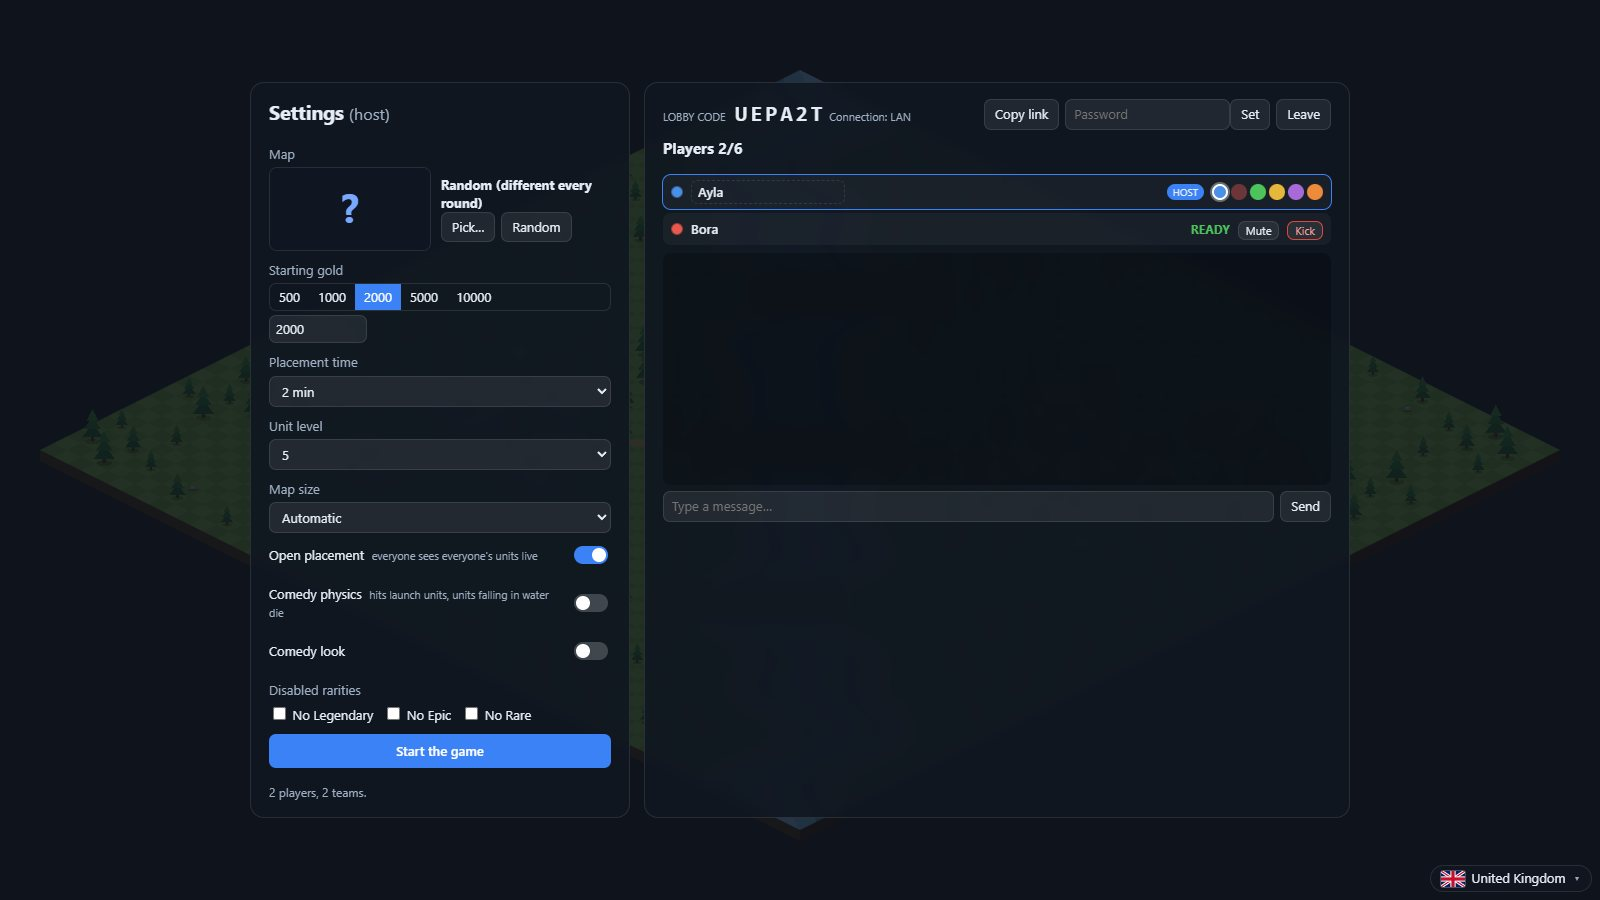
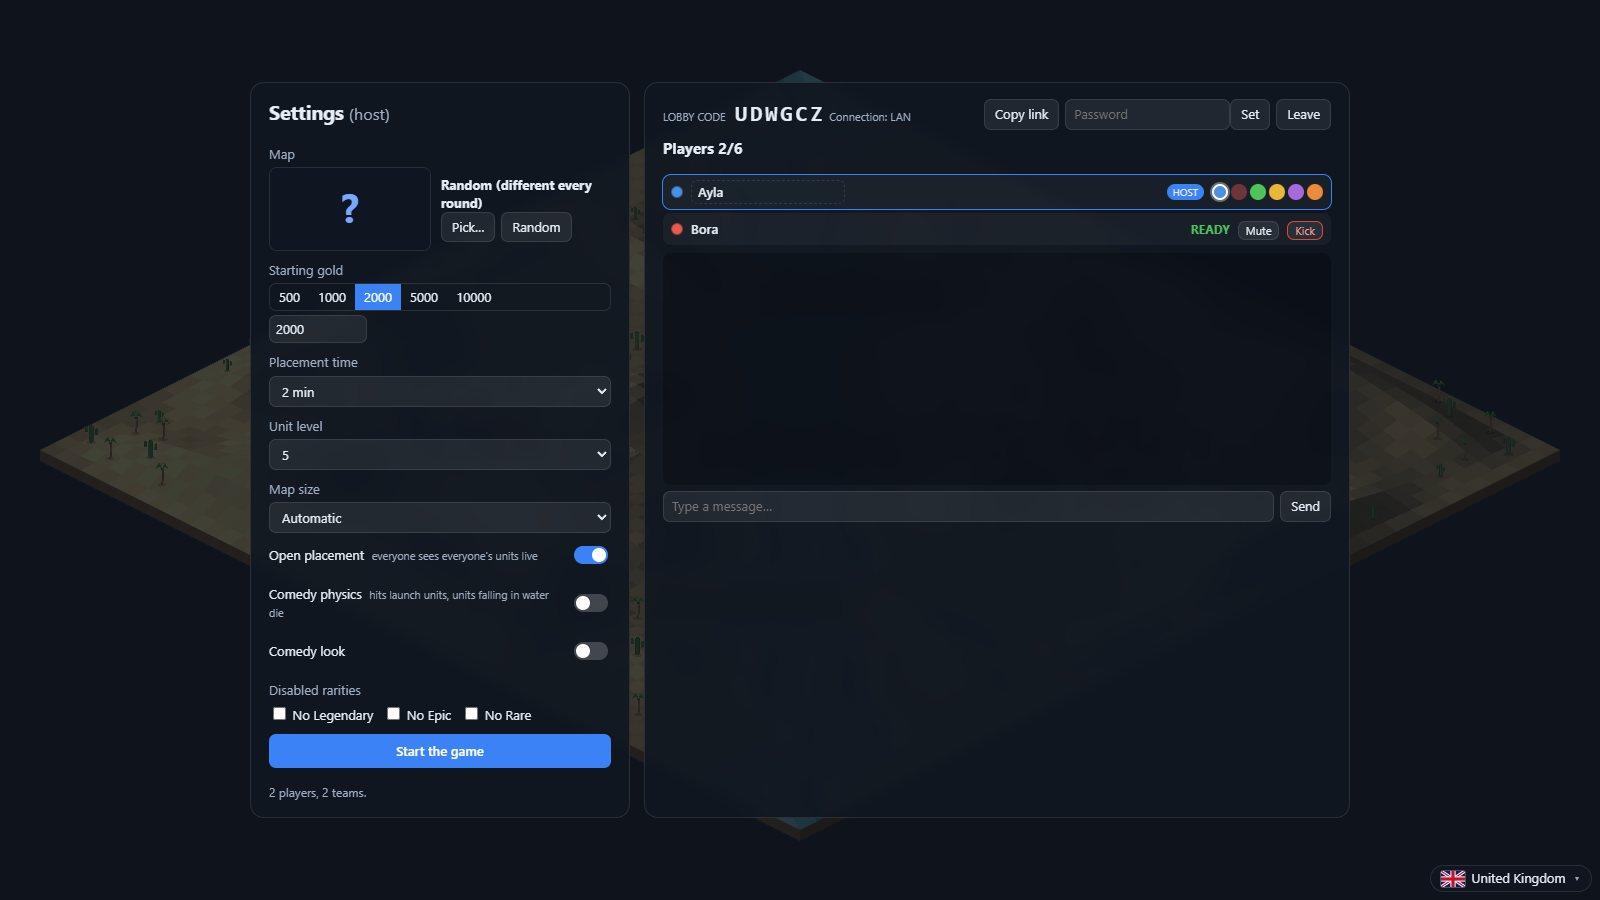
Release v1.5.0: language dropdown, unit attack previews, README showcase screenshots, AI-friendly setup

diff --git a/README.md b/README.md
@@ -13,14 +13,14 @@ support for phones and tablets, 49 units, random maps and a bilingual UI (Englis
 
 <!-- screenshots:start (generated by `npm run screenshots`) -->
 <p align="center">
-  <img src="docs/screenshots/battle.jpg" alt="v1.4.0 — Crowded battle" />
+  <img src="docs/screenshots/battle.jpg" alt="v1.5.0 — Crowded battle" />
 </p>
 
 <table>
-  <tr><td align="center"><img src="docs/screenshots/comedy.jpg" alt="v1.4.0 — Comedy physics" width="460" /><br /><sub>Comedy physics</sub></td><td align="center"><img src="docs/screenshots/maps.jpg" alt="v1.4.0 — Map gallery" width="460" /><br /><sub>Map gallery</sub></td></tr>
-  <tr><td align="center"><img src="docs/screenshots/units.jpg" alt="v1.4.0 — Unit gallery with attack previews" width="460" /><br /><sub>Unit gallery with attack previews</sub></td><td align="center"><img src="docs/screenshots/studio.jpg" alt="v1.4.0 — Army studio" width="460" /><br /><sub>Army studio</sub></td></tr>
-  <tr><td align="center"><img src="docs/screenshots/lobby.jpg" alt="v1.4.0 — Online lobby" width="460" /><br /><sub>Online lobby</sub></td><td align="center"><img src="docs/screenshots/placement.jpg" alt="v1.4.0 — Online placement" width="460" /><br /><sub>Online placement</sub></td></tr>
-  <tr><td colspan="2" align="center"><img src="docs/screenshots/mobile-studio.jpg" alt="v1.4.0 — Mobile bottom sheet" width="200" /> <img src="docs/screenshots/mobile-battle.jpg" alt="v1.4.0 — Mobile battle HUD" width="200" /><br /><sub>Mobile: bottom sheet and battle HUD</sub></td></tr>
+  <tr><td align="center"><img src="docs/screenshots/comedy.jpg" alt="v1.5.0 — Comedy physics" width="460" /><br /><sub>Comedy physics</sub></td><td align="center"><img src="docs/screenshots/maps.jpg" alt="v1.5.0 — Map gallery" width="460" /><br /><sub>Map gallery</sub></td></tr>
+  <tr><td align="center"><img src="docs/screenshots/units.jpg" alt="v1.5.0 — Unit gallery with attack previews" width="460" /><br /><sub>Unit gallery with attack previews</sub></td><td align="center"><img src="docs/screenshots/studio.jpg" alt="v1.5.0 — Army studio" width="460" /><br /><sub>Army studio</sub></td></tr>
+  <tr><td align="center"><img src="docs/screenshots/lobby.jpg" alt="v1.5.0 — Online lobby" width="460" /><br /><sub>Online lobby</sub></td><td align="center"><img src="docs/screenshots/placement.jpg" alt="v1.5.0 — Online placement" width="460" /><br /><sub>Online placement</sub></td></tr>
+  <tr><td colspan="2" align="center"><img src="docs/screenshots/mobile-studio.jpg" alt="v1.5.0 — Mobile bottom sheet" width="200" /> <img src="docs/screenshots/mobile-battle.jpg" alt="v1.5.0 — Mobile battle HUD" width="200" /><br /><sub>Mobile: bottom sheet and battle HUD</sub></td></tr>
 </table>
 <!-- screenshots:end -->
 
@@ -54,7 +54,8 @@ This project is **source-available, but closed to commercial use**. The source c
   spectators, reconnection, chat, player cursors. LAN, internet relay and WebRTC fallback.
 - **Mobile:** touch controls, bottom-sheet toolbar, adaptive resolution.
 - **Comedy mode:** ragdoll deaths, cartoon sounds, physics launches.
-- Bilingual UI: English (default) and Türkçe.
+- Bilingual UI: English (default) and Türkçe, switchable from the flag dropdown at the bottom right.
+- Unit gallery with automatic looping attack previews on every unit card.
 
 ## Play / Install
 
@@ -86,7 +87,9 @@ Prerequisites: Node.js 18+ (22 recommended), npm, a modern browser.
 npm install
 npm run dev      # dev server (http://localhost:5173)
 npm run build    # tsc + production build
-npm run check    # tsc --noEmit + tests
+npm run check    # tsc --noEmit + repo policy check + tests
+npm run check:fast  # same, fast test subset (~10 s)
+npm run screenshots # regenerate README screenshots (needs Chrome)
 ```
 
 `SharedArrayBuffer` (the worker simulation) needs the server to send `Cross-Origin-Opener-Policy: same-origin` and
@@ -175,7 +178,7 @@ The game is playable in a phone or tablet browser (the Pages address). Touch con
 - **Bottom sheet:** the thin bar at the bottom while placing (team, type, tool, *Start battle* / *READY*) scrolls horizontally; tap or drag its handle to open all tools.
   *Erase: selected team* is the equivalent of Shift+right click on desktop.
 - **Battle HUD:** speed / pause / camera (+ − ⌖) / statistics buttons scroll in one row; the statistics panel is hidden by default on touch devices.
-- **Online:** the lobby uses *Players | Settings* tabs on narrow screens; the badge at the bottom right shows the connection type and lobby code (tap to copy the invite link); the *Chat* button opens in-game chat.
+- **Online:** the lobby uses *Players | Settings* tabs on narrow screens; the badge at the bottom right (next to the language picker) shows the connection type and lobby code (tap to copy the invite link); the *Chat* button opens in-game chat.
 - Dialogs (units, maps) are full-screen pages; portrait and landscape are supported.
 
 Performance: on mid-range Android a 10,000-soldier battle and an 8,000-soldier main-thread simulation run at ~60 FPS. If frames stay slow the resolution

diff --git a/LICENSING.md b/LICENSING.md
@@ -33,3 +33,4 @@ That is why the project is not "open source" by the OSI definition.
 - v1.0.0 – v1.3.1: no license file (no license was granted beyond what the law gives).
 - From the commit that added this document: PolyForm Noncommercial 1.0.0 + additional terms.
 - From v1.4.0: the unit roster was rewritten with original names, stats and texts.
+- v1.5.0: the repository history was rewritten to remove material from before the roster rewrite.
